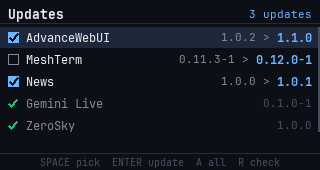
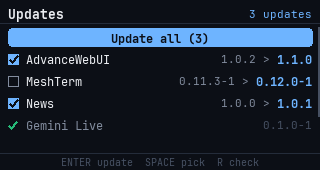
feat: Update all button at the top of the list

diff --git a/views.py b/views.py
@@ -37,11 +37,29 @@ def progress_bar(d, box, pct, color=ACCENT):
                     fill=color)
 
 
+def list_items(rows):
+    """What the list shows: an 'Update all' button first when any app has an update."""
+    n = sum(r['update'] for r in rows)
+    return ([{'all': n}] if n else []) + rows
+
+
+def update_all_button(d, y, n, selected):
+    box = (8, y + 1, W - 8, y + ROW_H - 3)
+    label = f"Update all ({n})"
+    if selected:
+        d.rounded_rectangle(box, radius=4, fill=ACCENT)
+    else:
+        d.rounded_rectangle(box, radius=4, outline=ACCENT)
+    d.text((W / 2, (box[1] + box[3]) / 2 + 1), label, font=F_BOLD,
+           fill=BG if selected else ACCENT, anchor='mm')
+
+
 def render_list(rows, sel, top, picked, status, check=None, empty=None):
-    """rows from registry.scan(); picked: packages ticked for update;
-    status: (text, color) for the header's right side; check: (stage, pct) while
-    checking; empty: (text, color) for an empty list."""
+    """rows from registry.scan(); sel/top index list_items(rows); picked: packages
+    ticked for update; status: (text, color) for the header's right side;
+    check: (stage, pct) while checking; empty: (text, color) for an empty list."""
     img, d = frame('Updates', *status)
+    items = list_items(rows)
     mid = (TOP + H - 17) / 2
     if check and not rows:
         d.text((W / 2, mid - 14), 'Checking for updates', font=F_BOLD, fill=FG, anchor='mm')
@@ -54,8 +72,11 @@ def render_list(rows, sel, top, picked, status, check=None, empty=None):
         text, col = empty or ('No store apps installed', DIM)
         d.text((W / 2, mid), clip(d, text, F_TEXT, W - 16), font=F_TEXT, fill=col,
                anchor='mm')
-    for i, row in enumerate(rows[top:top + ROWS]):
+    for i, row in enumerate(items[top:top + ROWS]):
         y = TOP + i * ROW_H
+        if 'all' in row:
+            update_all_button(d, y, row['all'], top + i == sel)
+            continue
         if top + i == sel:
             d.rectangle((0, y, W, y + ROW_H - 2), fill=SEL)
         cy = y + ROW_H // 2 - 1
@@ -79,12 +100,12 @@ def render_list(rows, sel, top, picked, status, check=None, empty=None):
         title_col = FG if row['update'] else DIM
         d.text((26, cy), clip(d, row['title'], F_TEXT, x - 34), font=F_TEXT, fill=title_col,
                anchor='lm')
-    if len(rows) > ROWS:
-        h = (H - TOP - 18) * ROWS / len(rows)
-        y0 = TOP + (H - TOP - 18 - h) * top / max(1, len(rows) - ROWS)
+    if len(items) > ROWS:
+        h = (H - TOP - 18) * ROWS / len(items)
+        y0 = TOP + (H - TOP - 18 - h) * top / max(1, len(items) - ROWS)
         d.rectangle((W - 2, y0, W, y0 + h), fill=FAINT)
     n = sum(r['update'] for r in rows)
-    footer(d, 'SPACE pick  ENTER update  A all  R check' if n else
+    footer(d, 'ENTER update  SPACE pick  R check' if n else
            'Please wait' if check else 'R check again')
     return img
 

diff --git a/zero_updates.py b/zero_updates.py
@@ -76,8 +76,12 @@ class App:
         self.version += 1
         threading.Thread(target=work, daemon=True).start()
 
+    @property
+    def items(self):
+        return views.list_items(self.rows)
+
     def _scroll(self):
-        n = len(self.rows)
+        n = len(self.items)
         self.sel = max(0, min(self.sel, n - 1))
         self.top = max(0, min(self.top, self.sel, n - views.ROWS))
         if self.sel >= self.top + views.ROWS:
@@ -97,21 +101,26 @@ class App:
         if k == keys.K_ESC:
             hold.press(now)
             return False
-        rows, n = self.rows, len(self.rows)
+        items, n = self.items, len(self.items)
+        cur = items[self.sel] if n else {}
+        updates = [r for r in self.rows if r['update']]
         if k in (keys.K_UP, keys.K_DOWN) and n:
             self.sel = (self.sel + (-1 if k == keys.K_UP else 1)) % n
             self._scroll()
-        elif k == keys.K_SPACE and n and rows[self.sel]['update']:
-            self.picked ^= {rows[self.sel]['package']}
+        elif k == keys.K_SPACE and cur.get('update'):
+            self.picked ^= {cur['package']}
         elif k == keys.K_ENTER and n:
-            targets = [r for r in rows if r['package'] in self.picked]
-            if not targets and rows[self.sel]['update']:
-                targets = [rows[self.sel]]
+            if 'all' in cur:
+                targets = updates
+            else:
+                targets = [r for r in updates if r['package'] in self.picked]
+                if not targets and cur.get('update'):
+                    targets = [cur]
             if not targets:
                 return False
             self._open_confirm(targets)
-        elif k == K_A and any(r['update'] for r in rows):
-            self._open_confirm([r for r in rows if r['update']])
+        elif k == K_A and updates:
+            self._open_confirm(updates)
         elif k == K_R:
             self.check()
         else:

diff --git a/test_zero_updates.py b/test_zero_updates.py
@@ -206,19 +206,31 @@ class TestApp(unittest.TestCase):
         for c in codes:
             self.app.handle(c, self.hold, 0)
 
+    def test_update_all_button_is_first_and_selected(self):
+        self.assertEqual(self.app.items[0], {'all': 3})
+        with mock.patch.object(installer, 'sudo_ready', return_value=True):
+            self.press(keys.K_SPACE, keys.K_ENTER)   # SPACE on the button does nothing
+        self.assertEqual(self.app.picked, set())
+        self.assertEqual(len(self.app.targets), 3)
+
+    def test_no_button_without_updates(self):
+        for r in self.app.rows:
+            r['update'] = False
+        self.assertEqual(self.app.items, self.app.rows)
+
     def test_space_picks_only_updatable_rows(self):
-        self.press(keys.K_SPACE, 45, 45, 45, keys.K_SPACE)   # X moves down
+        self.press(45, keys.K_SPACE, 45, 45, 45, keys.K_SPACE)   # X moves down
         self.assertEqual(self.app.picked, {'advancewebui'})
 
     def test_enter_updates_picked_or_current(self):
         with mock.patch.object(installer, 'sudo_ready', return_value=False):
-            self.press(45, keys.K_ENTER)
+            self.press(45, 45, keys.K_ENTER)
         self.assertEqual(self.app.view, 'confirm')
         self.assertEqual([t['package'] for t in self.app.targets], ['meshterm'])
         self.assertTrue(self.app.need_password)
 
     def test_enter_on_current_row_without_update_does_nothing(self):
-        self.app.sel = 4
+        self.app.sel = 5
         self.press(keys.K_ENTER)
         self.assertEqual(self.app.view, 'list')
 

diff --git a/README.md b/README.md
@@ -4,7 +4,7 @@ The CardputerZero AppStore updates one app at a time from its detail page and ne
 
 ![App list](screenshots/list.png) ![Updating](screenshots/progress.png)
 
-- **List**: installed store apps, apps with an update first (`installed > latest`), the rest marked up to date. The registry is fetched on start; without network the last fetched copy is used.
+- **List**: installed store apps, apps with an update first (`installed > latest`), the rest marked up to date. When any app has an update, an **Update all** button heads the list and is selected on start, so ENTER updates everything. The registry is fetched on start; without network the last fetched copy is used.
 - **Update**: each package is downloaded from the registry URL and checked against the registry's size and SHA-256 and the expected package name and version. An `apt-get` dry run comes first: if installing would remove any other package (for example a library another app links against), that app is skipped and the reason shown.
 - **Root**: installing needs root. Like the AppStore, the app asks for the `pi` user's sudo password once per batch (not asked when sudo needs none). It is checked with `sudo -v` and dropped when the batch ends; it is never stored or passed to apt.
 - The AppStore's own record of installed versions is updated too, so the store shows the new version.
@@ -15,7 +15,7 @@ The CardputerZero AppStore updates one app at a time from its detail page and ne
 |--------|-----|--------|
 | List | F / X | Move up / down |
 | List | SPACE | Pick / unpick an app with an update |
-| List | ENTER | Update the picked apps (or the highlighted one) |
+| List | ENTER | On Update all: update every app. On an app: update the picked apps (or that one) |
 | List | A | Update all |
 | List | R | Check again |
 | List | Hold ESC 3 s | Exit |
